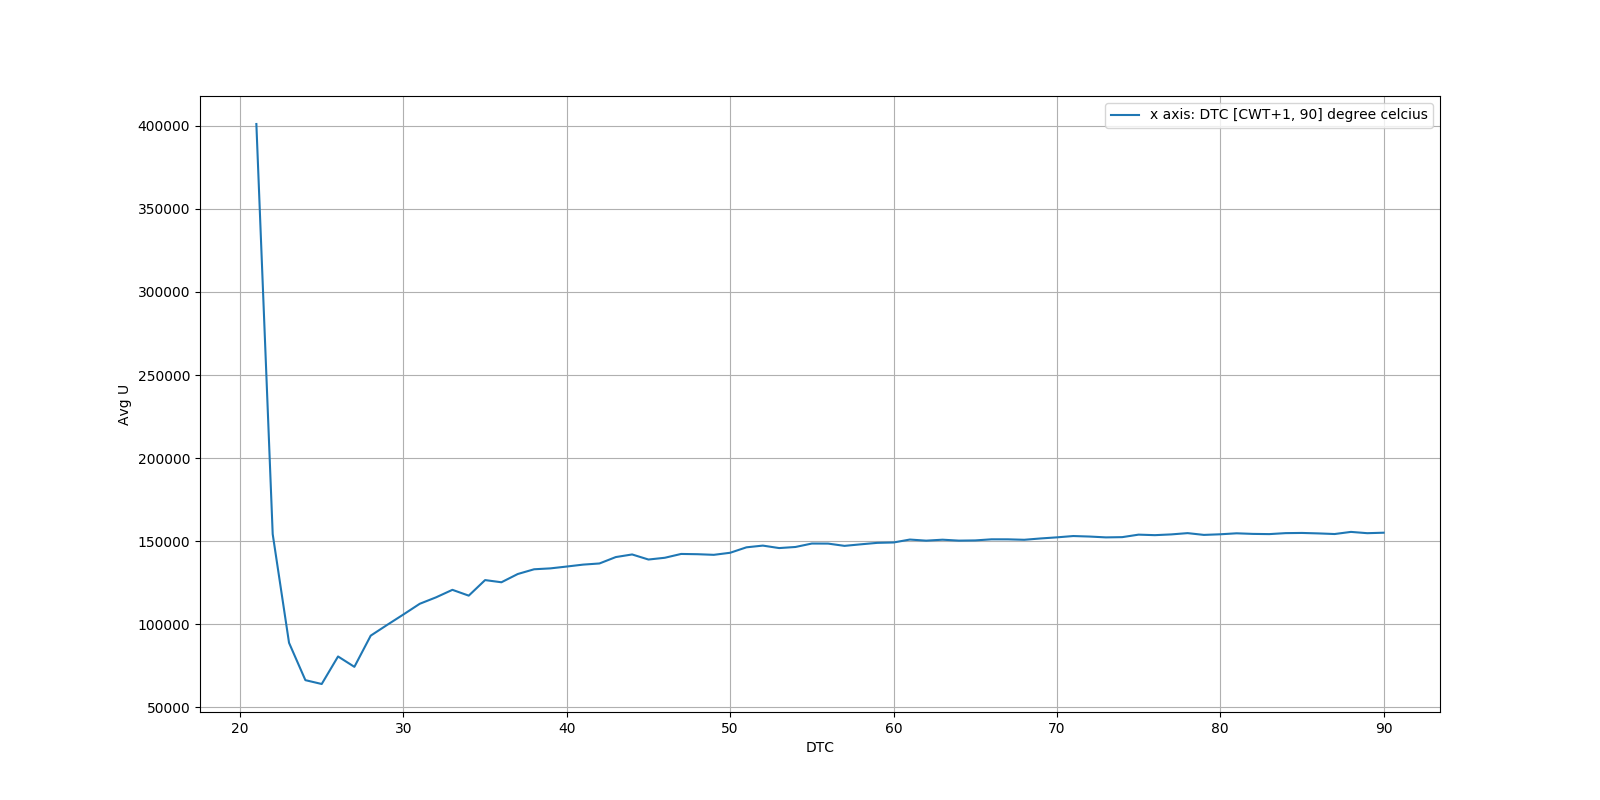
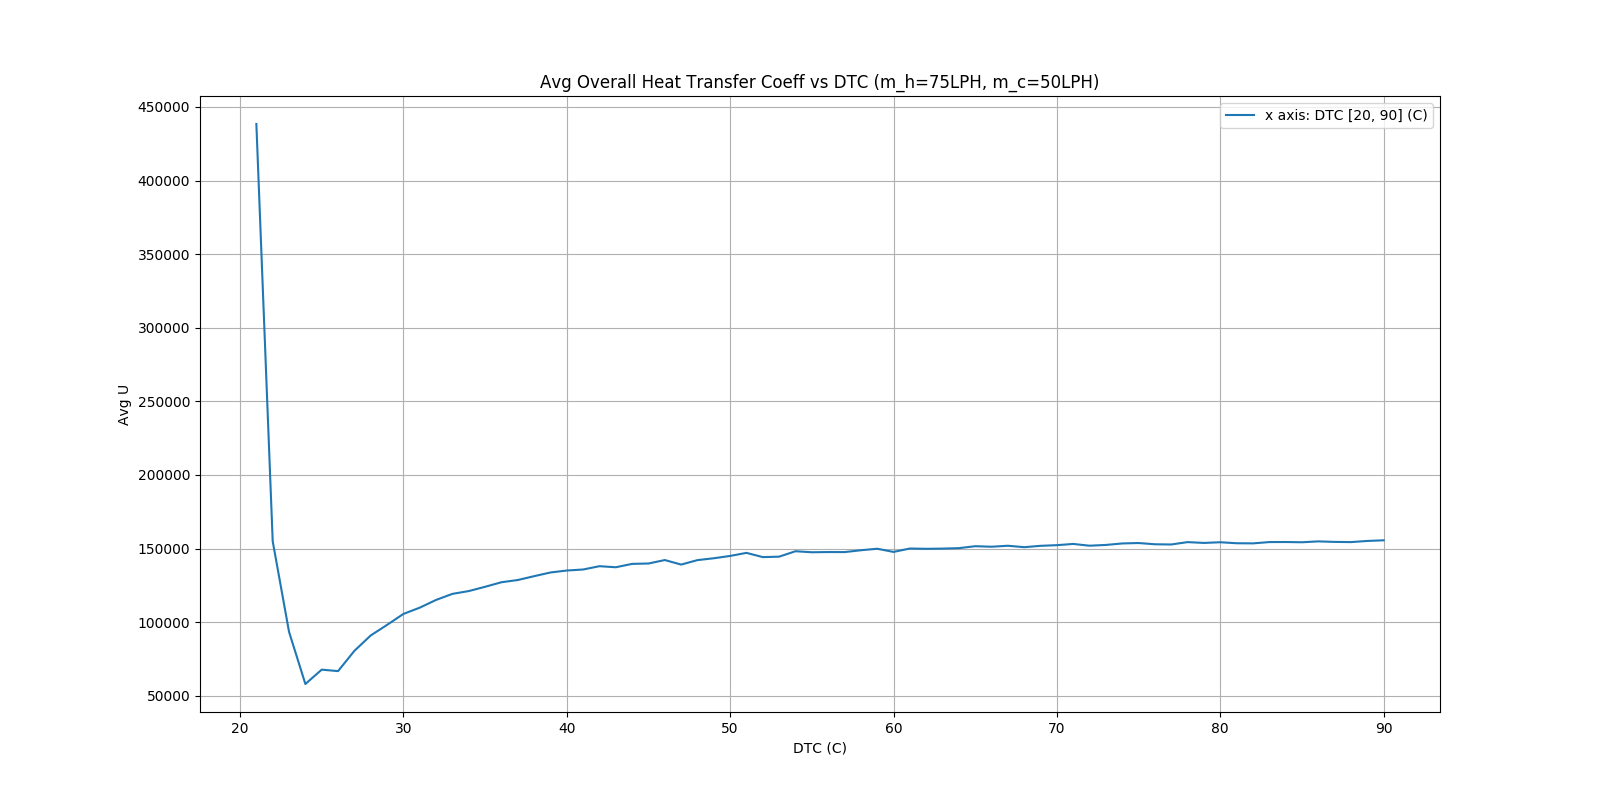
new(1) (U,e) vs DTC

diff --git a/exp1/main.py b/exp1/main.py
@@ -11,12 +11,12 @@ def show(x, y, title='Avg Overall Heat Transfer Coeff of Exchanger vs DTC', xlab
     plt.ylabel(ylabel)
     plt.grid(True)
     plt.plot(x, y)
-    plt.legend(['x axis: Flow rate [1, 75] LPH, Cold Liquid Flow rate : 50 LPH'])
+    plt.legend(['x axis: DTC [20, 90] (C)'])
     plt.title(title)
     plt.savefig('./results/' + saveas)
     plt.show()
 
-def run(T, T_h_i, T_c_i, T_h_o, T_c_o, dtc, m_h, flag=1):
+def run(T, T_h_i, T_c_i, T_h_o, T_c_o, dtc, flag=1):
     _U  = list(map(lambda w, x, y, z: U(m_c, c_p, w, x, y, z, D_o, N, L), T_h_i, T_c_i, T_h_o, T_c_o))
     _e  = list(map(lambda w, x, y, z: effectiveness(m_h, m_c, c_p, w, x, y, z), T_h_i, T_h_o, T_c_i, T_c_o))
     #print("DTC: {0} , AVERAGE U: {1:.2f}".format(dtc, sum(_U) / len(_U)))
@@ -27,30 +27,29 @@ def run(T, T_h_i, T_c_i, T_h_o, T_c_o, dtc, m_h, flag=1):
         return sum(_e) / len(_e)
 
 
-def main(DTC, m_h):
+def main(DTC):
     # theoretical outlet temperatures
     avg_U = list()
     avg_e = list()
-    dtc = DTC
-    for m in m_h:
-        T_th = find_T_o(m, m_c, dtc, CWT)
+    for dtc in DTC:
+        T_th = find_T_o(m_h, m_c, dtc, CWT)
         T_h_i = gen_T_h_i(dtc)
         T_c_i = gen_T_c_i(CWT)
         T_h_o = gen_T_o(T_th)
         T_c_o = gen_T_o(T_th)
-        avg_U.append(run(T_th, T_h_i, T_c_i, T_h_o, T_c_o, dtc, m))
-        avg_e.append(run(T_th, T_h_i, T_c_i, T_h_o, T_c_o, dtc, m, flag=0))
-    show(m_h, avg_U, title='Avg Overall Heat Transfer Coeff vs Hot Liquid Flow Rate (DTC=60C)', xlabel='m_h', saveas='Uvsm_h.png')
-    show(m_h, avg_e, title='Avg Effectiveness of Exchanger vs Hot Liquid Flow Rate (DTC=60C)', xlabel='m_h', ylabel='Avg e', saveas='evsm_h.png')
+        avg_U.append(run(T_th, T_h_i, T_c_i, T_h_o, T_c_o, dtc))
+        avg_e.append(run(T_th, T_h_i, T_c_i, T_h_o, T_c_o, dtc, flag=0))
+    show(DTC, avg_U, title='Avg Overall Heat Transfer Coeff vs DTC (m_h=75LPH, m_c=50LPH)', xlabel='DTC (C)', saveas='UvsDTC.png')
+    show(DTC, avg_e, title='Avg Effectiveness of Exchanger vs DTC (m_h=75LPH, m_c=50LPH)', xlabel='DTC (C)', ylabel='Avg e', saveas='evsDTC.png')
 
 
 if __name__ == "__main__":
     # Variables (Control) Parameters
     CWT = 20    # cold water temperature (inlet)
-    #DTC = [ i for i in range(90, CWT, -1) ]     # hot water temperature (inlet)
-    DTC = 60
-    #m_h = 75
-    m_h = [ i for i in range(75, 0, -1) ] #75   # flow rate for hot water  (kg/s) (check TODO)
+    DTC = [ i for i in range(90, CWT, -1) ]     # hot water temperature (inlet)
+    #DTC = 60
+    m_h = 75
+    #m_h = [ i for i in range(75, 0, -1) ] #75   # flow rate for hot water  (kg/s) (check TODO)
     m_c = 50   # flow rate for cold water (kg/s) (check TODO)
     #m_c = [ i for i in range(1, 75, 1) ] #75   # flow rate for hot water  (kg/s) (check TODO)
-    main(DTC, m_h)
+    main(DTC)
